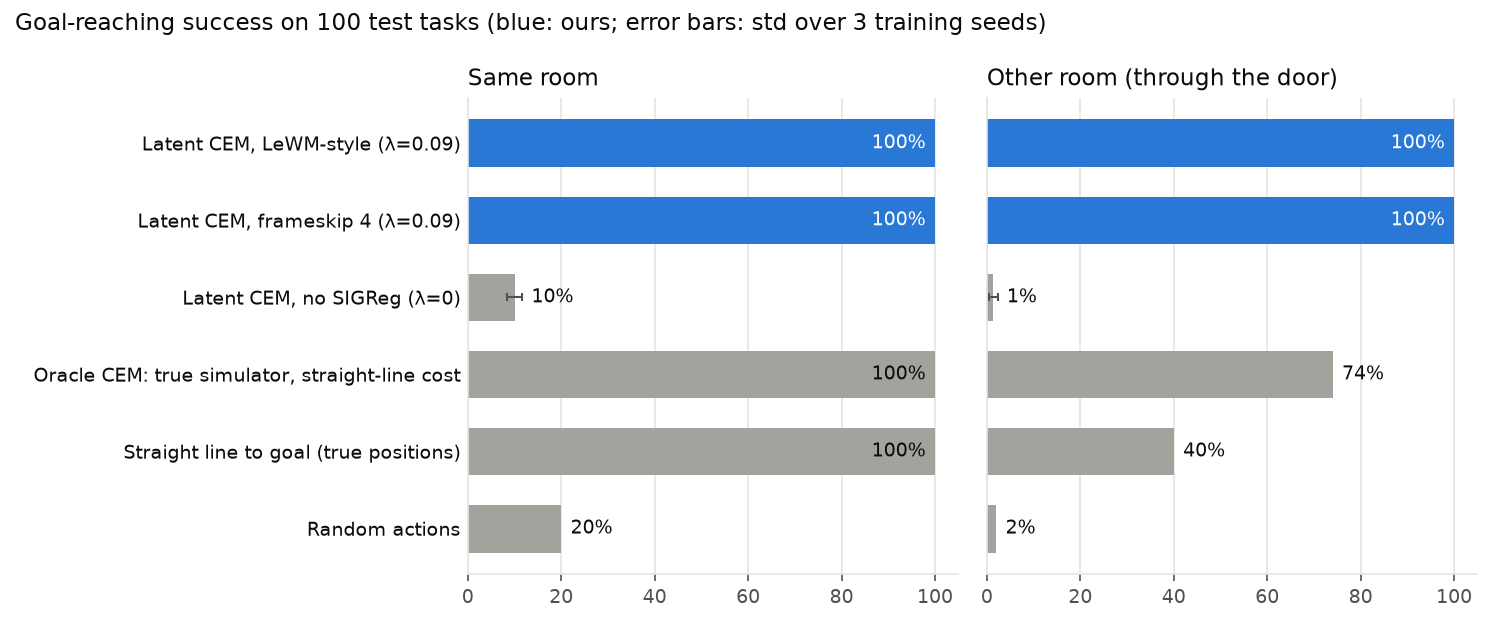
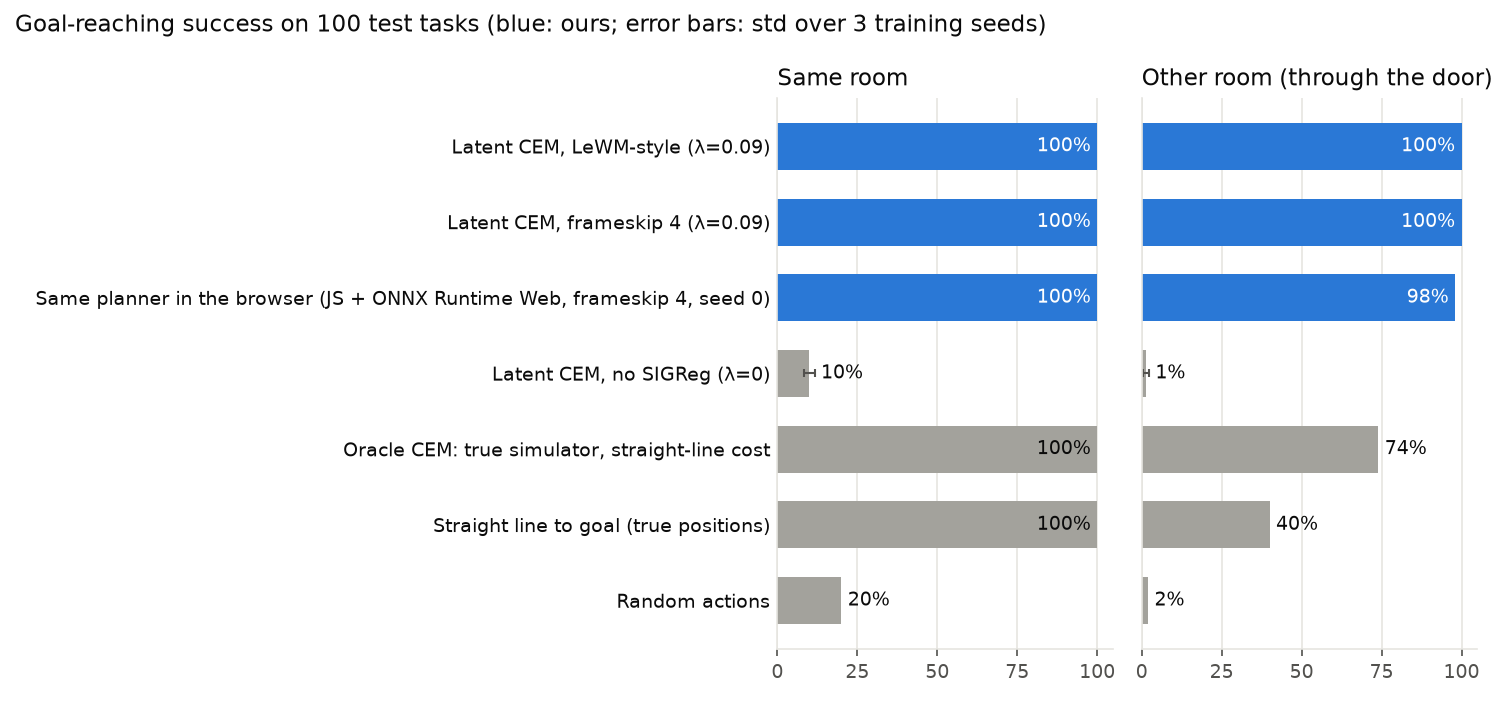
Report the browser planner's own test result (99%) alongside the Python numbers
Claude-Session: https://claude.ai/code/session_01Q6ZaQRPwaWi98yFamBohZX

diff --git a/latent_planner/report.py b/latent_planner/report.py
@@ -65,6 +65,13 @@ def main() -> None:
                      "success_cross": mu.success_cross, "success_cross_std": sd.success_cross,
                      "steps": mu.mean_steps_success, "sec_per_replan": mu.sec_per_replan,
                      "per_seed": g.success.round(3).tolist()})
+    g = ev[ev.method == "browser_cem"].tail(1)
+    if not g.empty:
+        r = g.iloc[0]
+        rows.insert(sum(x["ours"] for x in rows), {"label": "Same planner in the browser (JS + ONNX Runtime Web, frameskip 4, seed 0)",
+                     "ours": True, "n_seeds": 1, "success": r.success, "success_same": r.success_same,
+                     "success_cross": r.success_cross, "steps": r.mean_steps_success,
+                     "sec_per_replan": r.sec_per_replan, "per_seed": [round(r.success, 3)]})
     for method, label in BASELINES:
         g = ev[ev.method == method].tail(1)
         if g.empty:

diff --git a/WRITEUP.md b/WRITEUP.md
@@ -64,6 +64,7 @@ CEM, the same CEM with the true simulator and the true straight-line distance as
 |---|---|---|---|---|---|---|
 | Latent CEM, LeWM-style (λ=0.09) | 3 | 100 ± 0% | 100 ± 0% | 100 ± 0% | 10.3 | 1.00, 1.00, 1.00 |
 | Latent CEM, frameskip 4 (λ=0.09) | 3 | 100 ± 0% | 100 ± 0% | 100 ± 0% | 9.4 | 1.00, 1.00, 1.00 |
+| Same planner in the browser (JS + ONNX Runtime Web, frameskip 4, seed 0) | 1 | 99% | 100% | 98% | 9.2 | 0.99 |
 | Latent CEM, no SIGReg (λ=0) | 3 | 6 ± 0% | 10 ± 2% | 1 ± 1% | 16.2 | 0.06, 0.06, 0.05 |
 | Oracle CEM: true simulator, straight-line cost | - | 87% | 100% | 74% | 6.8 | - |
 | Straight line to goal (true positions) | - | 70% | 100% | 40% | 5.6 | - |
@@ -149,7 +150,9 @@ reaches goals with no horizontal overflow.
 - The planner needs the goal within its 20-step horizon (finding 2). Longer tasks would need a longer horizon or
   hierarchical planning.
 - One planning seed per trained model; the spread across seeds is training variance only.
-- The demo uses one model (frameskip 4, seed 0); the evaluation numbers cover all three seeds.
+- The demo uses one model (frameskip 4, seed 0); the evaluation numbers cover all three seeds. Its browser
+  planner (same algorithm, JS random numbers, ONNX Runtime Web, fp16 predictor weights) scores 99% on the test
+  tasks vs 100% in Python; the one miss has its goal in the corner of the doorway.
 
 ## Engineering notes
 

diff --git a/results/RESULTS.md b/results/RESULTS.md
@@ -8,6 +8,7 @@ Generated by `python -m latent_planner.report` from `results/eval.csv` and `resu
 |---|---|---|---|---|---|---|
 | Latent CEM, LeWM-style (λ=0.09) | 3 | 100 ± 0% | 100 ± 0% | 100 ± 0% | 10.3 | 1.00, 1.00, 1.00 |
 | Latent CEM, frameskip 4 (λ=0.09) | 3 | 100 ± 0% | 100 ± 0% | 100 ± 0% | 9.4 | 1.00, 1.00, 1.00 |
+| Same planner in the browser (JS + ONNX Runtime Web, frameskip 4, seed 0) | 1 | 99% | 100% | 98% | 9.2 | 0.99 |
 | Latent CEM, no SIGReg (λ=0) | 3 | 6 ± 0% | 10 ± 2% | 1 ± 1% | 16.2 | 0.06, 0.06, 0.05 |
 | Oracle CEM: true simulator, straight-line cost | - | 87% | 100% | 74% | 6.8 | - |
 | Straight line to goal (true positions) | - | 70% | 100% | 40% | 5.6 | - |

diff --git a/README.md b/README.md
@@ -21,6 +21,7 @@ live in the browser.
 |---|---|---|
 | **Latent CEM, LeWM-style (λ=0.09), 3 seeds** | **100%** | **100%** |
 | **Latent CEM, frameskip 4 (browser model), 3 seeds** | **100%** | **100%** |
+| Same planner running in the browser (JS + ONNX Runtime Web) | 99% | 98% |
 | Latent CEM without SIGReg (λ=0), 3 seeds | 6% | 1% |
 | Oracle CEM: true simulator, straight-line cost | 87% | 74% |
 | Straight line to goal (true positions) | 70% | 40% |
